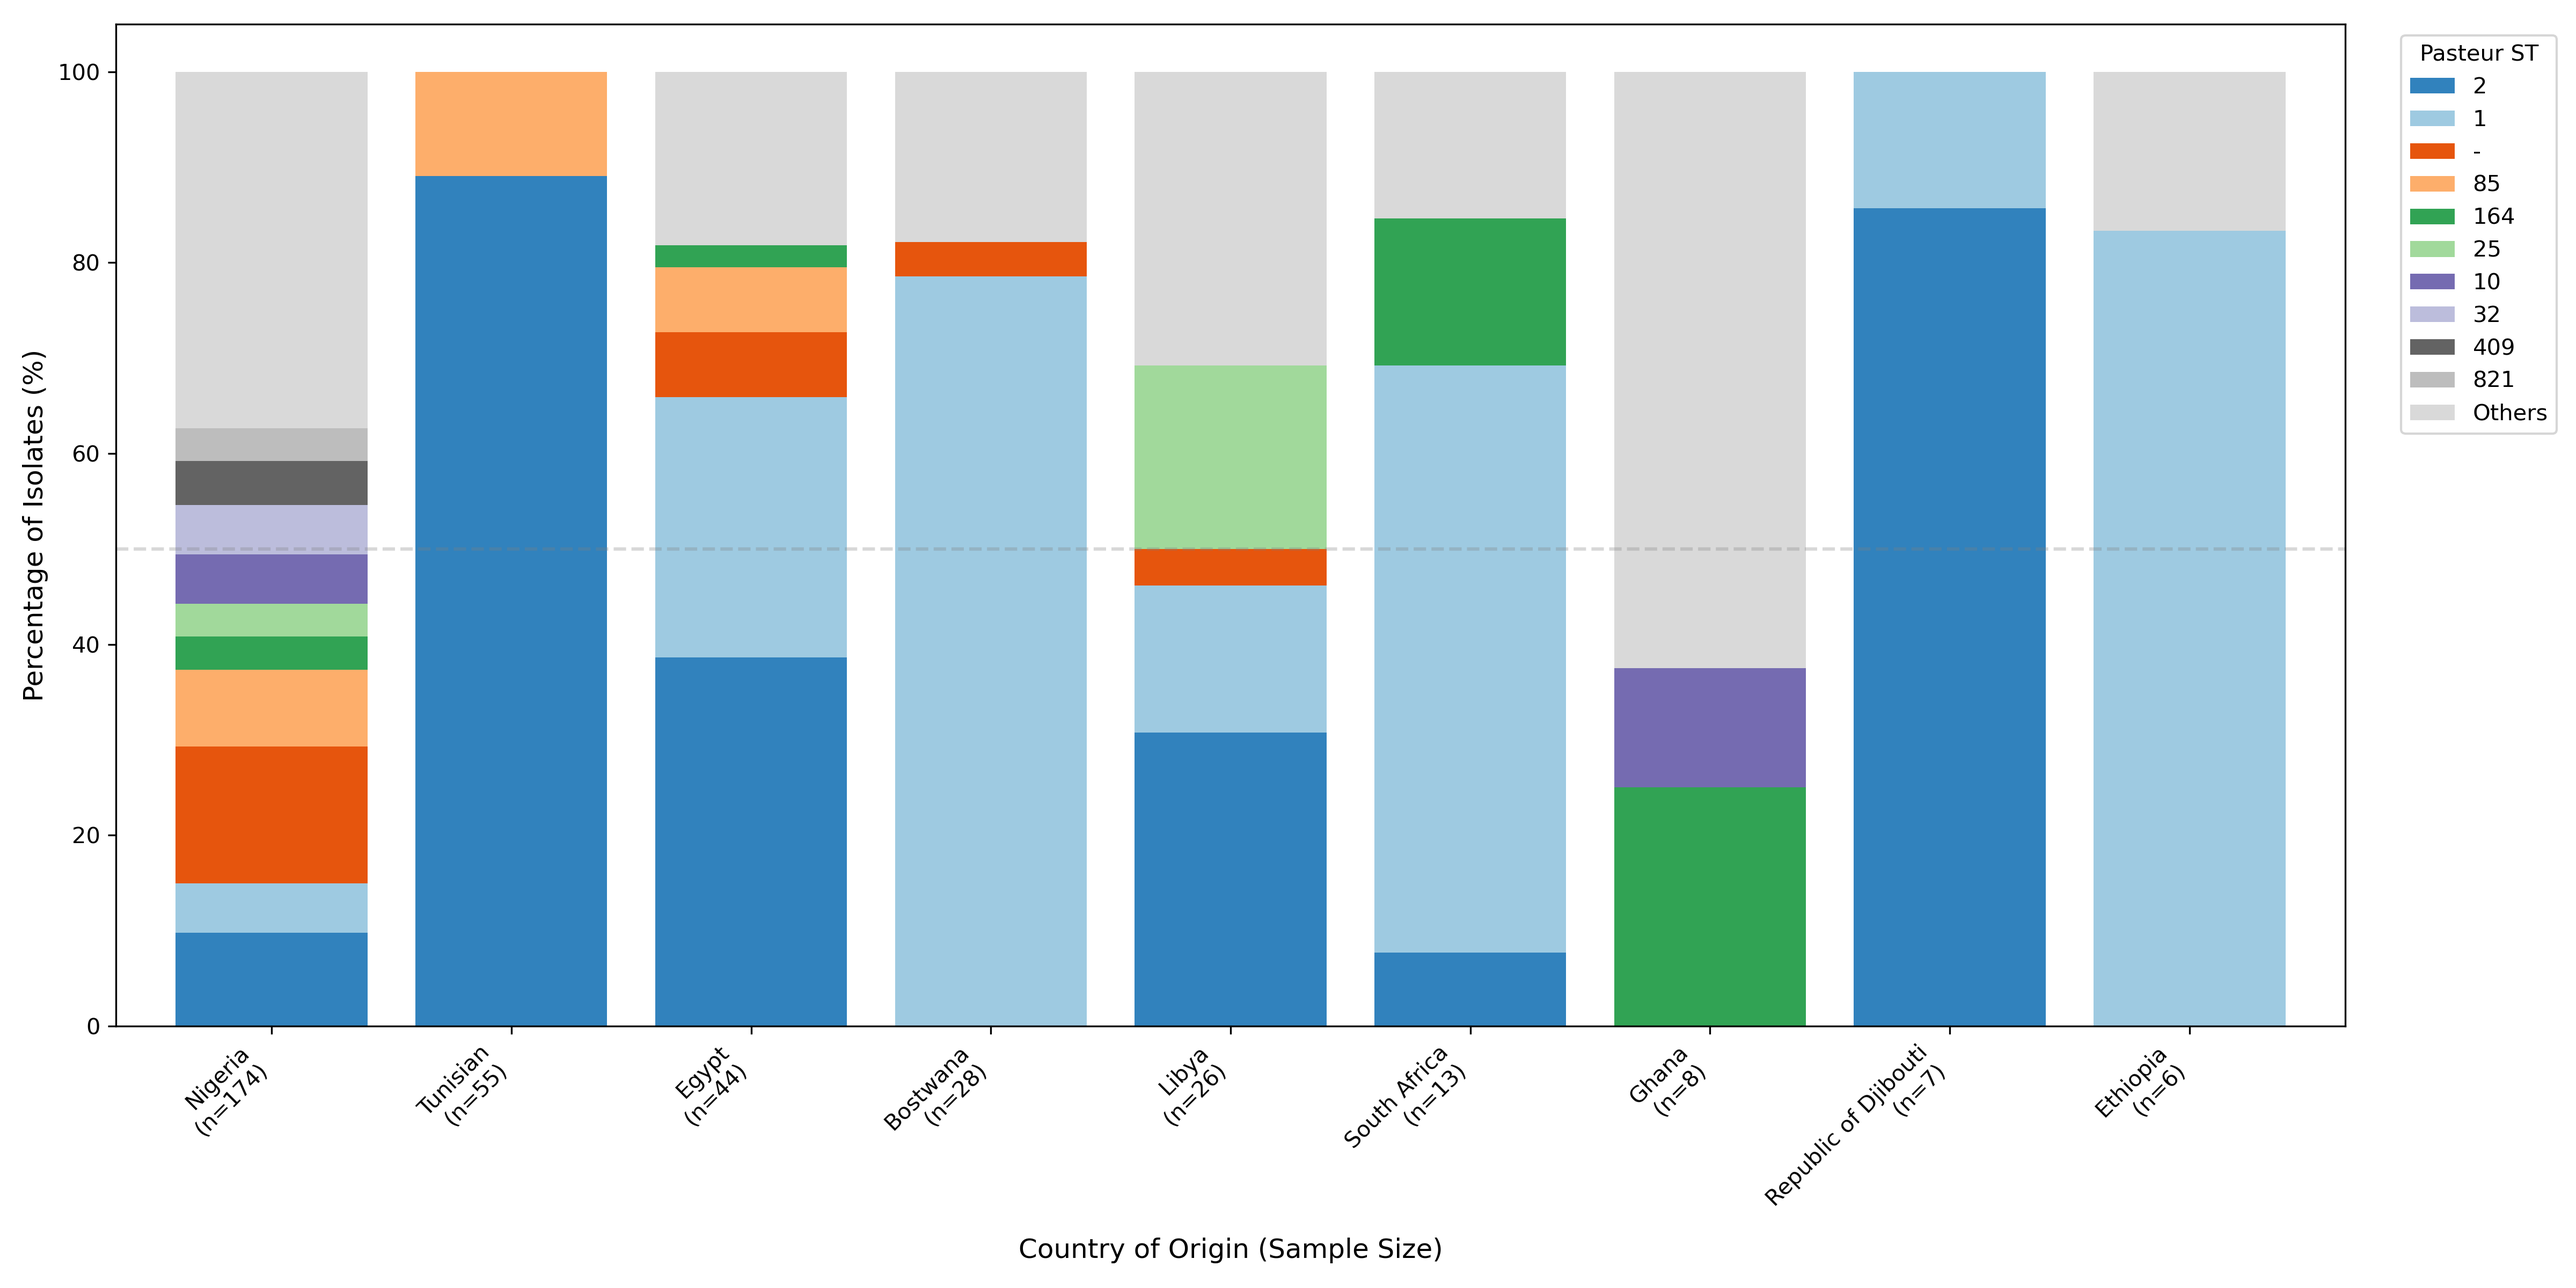
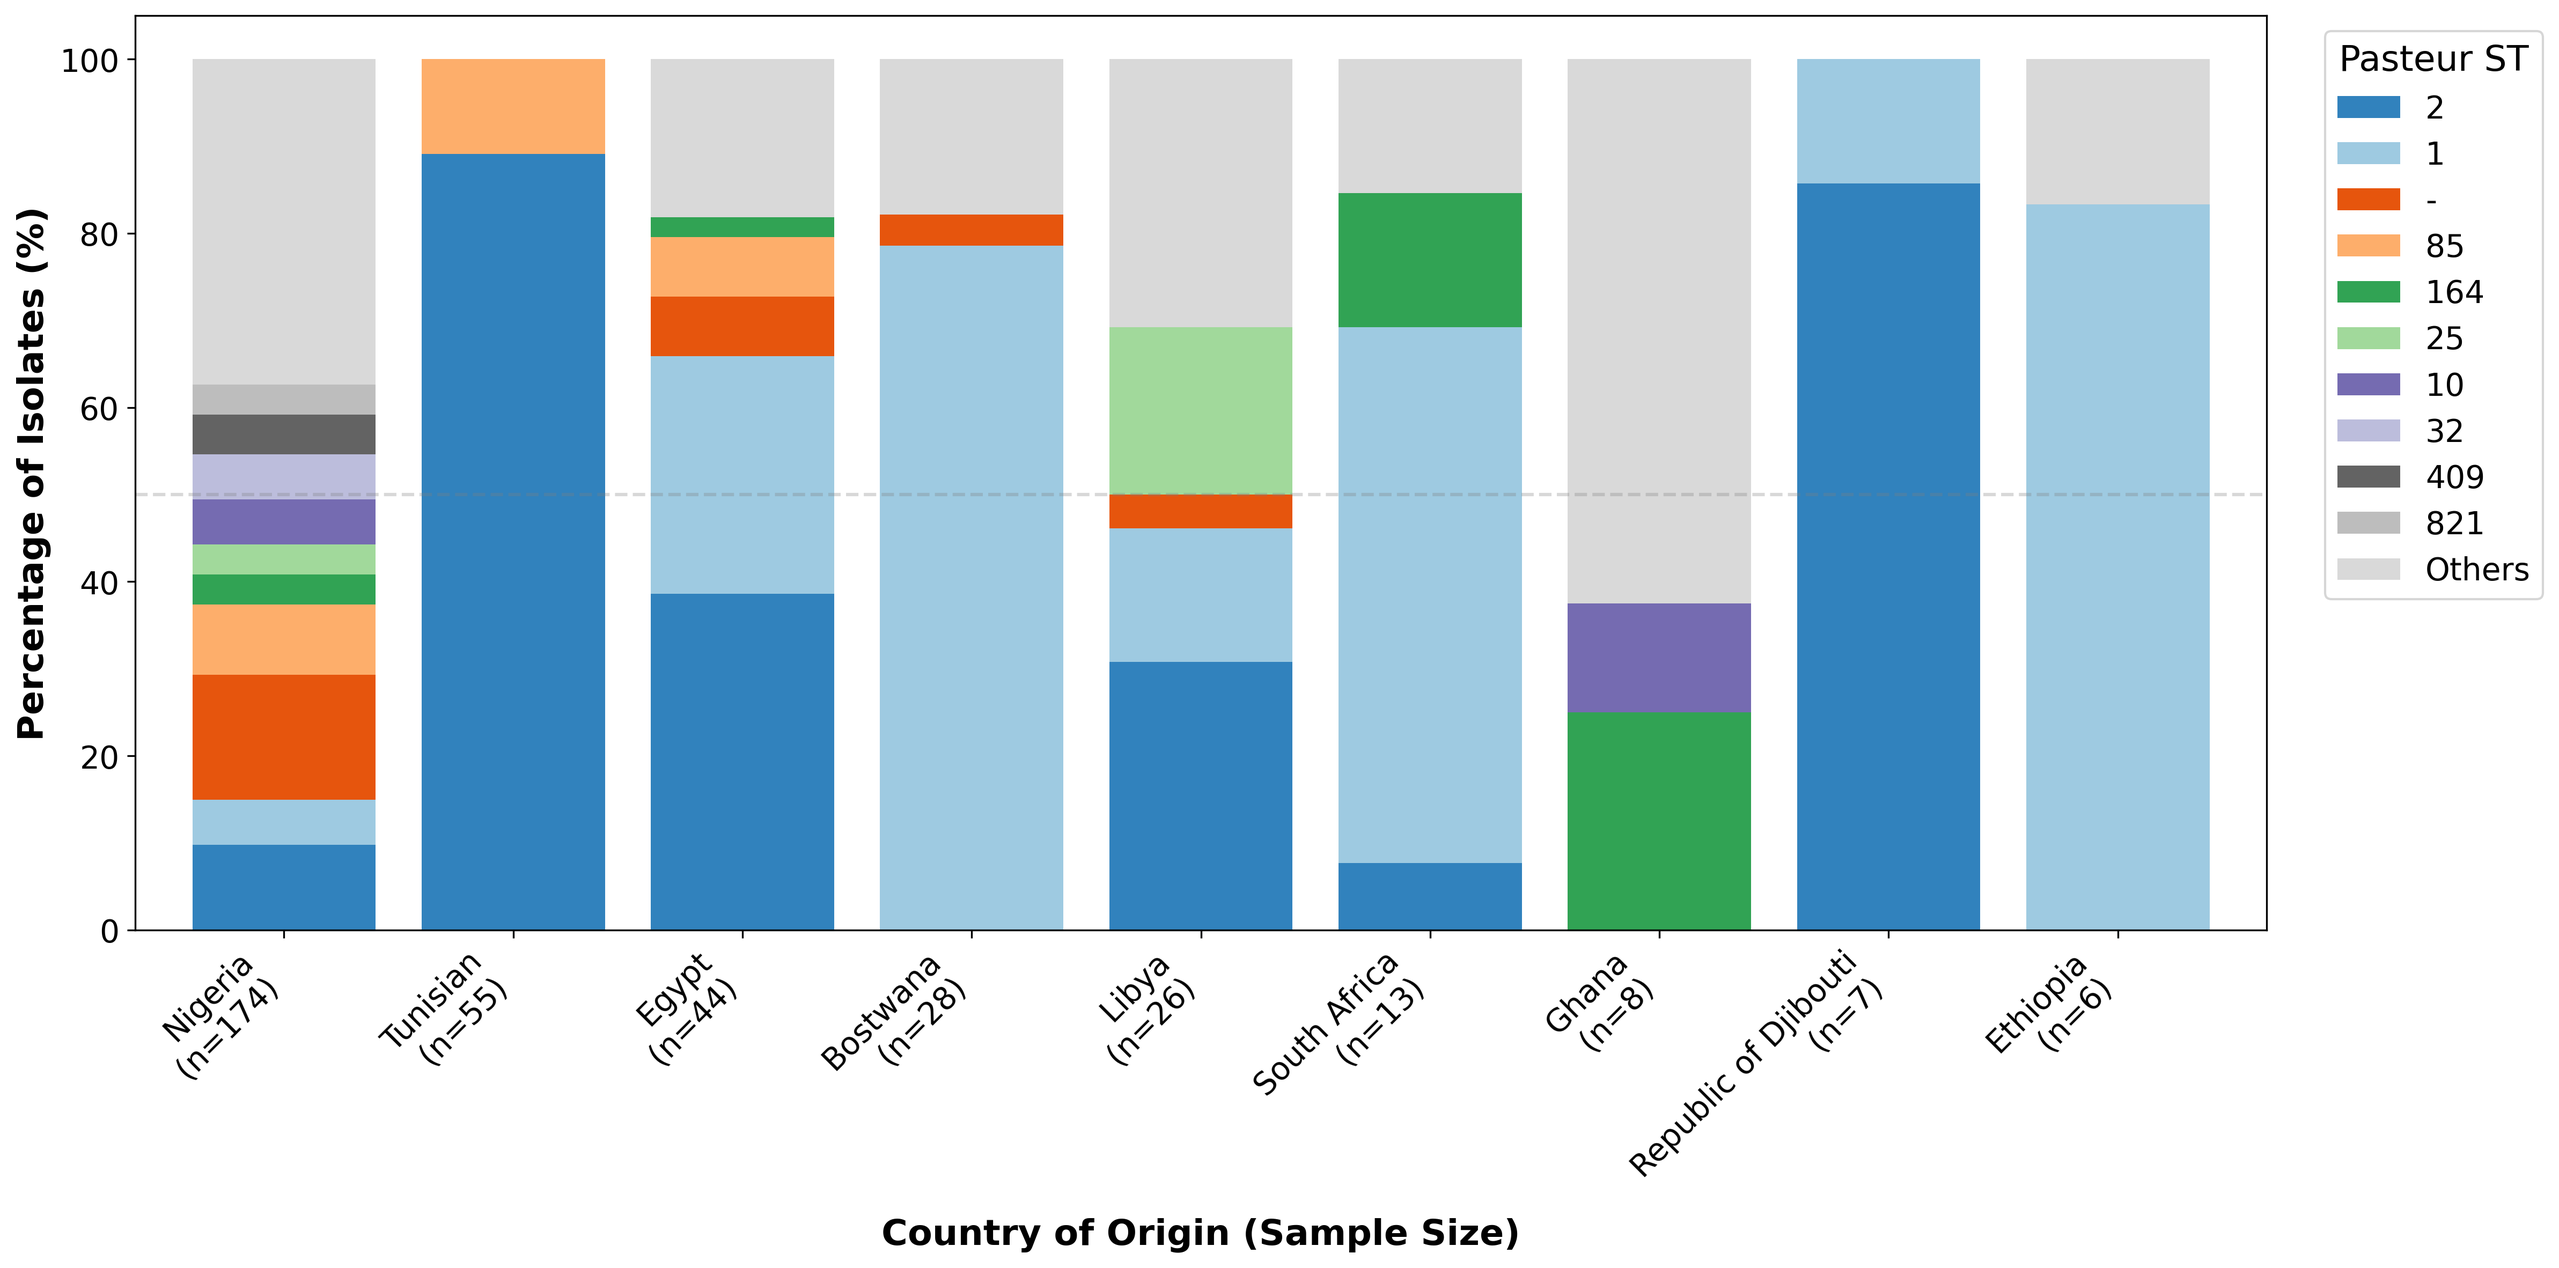
update script

diff --git a/Scripts/plot_faceted_source.py b/Scripts/plot_faceted_source.py
@@ -1,6 +1,6 @@
-# 14_plot_faceted_source_st.py
+# 14_plot_faceted_source_st_bold.py
 # Description: Creates a faceted bar chart showing Sequence Type (ST) distribution
-# separated by Isolation Source (e.g., Blood, Respiratory, Wound).
+# separated by Isolation Source with BOLD AXIS TEXT and MEGA LEGEND.
 # Corresponds to Figure 4.5 in the thesis.
 
 import pandas as pd
@@ -8,8 +8,8 @@ import matplotlib.pyplot as plt
 import os
 
 # --- Configuration ---
-INPUT_FILE = "../data/microreact_metadata_final_Copy.xlsx"
-OUTPUT_IMAGE = "../results/figures/Figure_4_5_Faceted_ST_By_Source.png"
+INPUT_FILE = "data/microreact_metadata_final_Copy.xlsx"
+OUTPUT_IMAGE = "results/figures/Figure_4_5_Faceted_ST_By_Source.png"
 
 os.makedirs(os.path.dirname(OUTPUT_IMAGE), exist_ok=True)
 
@@ -19,17 +19,14 @@ meta = pd.read_excel(INPUT_FILE, index_col='id')
 
 # 2. BASIC CLEANING
 meta = meta.dropna(subset=['Country', 'ST'])
-
 meta['Country'] = meta['Country'].str.strip()
 meta['Isolation source'] = meta['Isolation source'].str.lower().str.strip()
 meta['Isolation source'] = meta['Isolation source'].fillna('unknown')
-
 meta['ST'] = pd.to_numeric(meta['ST'], errors='coerce')
 meta = meta.dropna(subset=['ST'])
 meta['ST'] = meta['ST'].astype(int)
 
 # 3. ISOLATION SOURCE MAPPING
-# Standardizing diverse source names into broad categories
 source_map = {
     # PATIENT SAMPLES
     'blood': 'blood', 'cvp blood': 'blood', 'cerebrospinal fluid (csf)': 'csf',
@@ -71,7 +68,6 @@ priority_sources = [
 meta = meta[meta['Isolation source'].isin(priority_sources)]
 
 # 5. GLOBAL COUNTRY + ST SELECTION
-# Define consistent categories for all facets
 global_country_counts = meta['Country'].value_counts()
 top_countries = global_country_counts[global_country_counts >= 5].nlargest(5).index
 top_st_global = meta['ST'].value_counts().nlargest(10).index
@@ -82,8 +78,13 @@ sources = priority_sources
 ncols = 2
 nrows = (len(sources) + 1) // ncols
 
-fig, axes = plt.subplots(nrows, ncols, figsize=(18, 6 * nrows), sharey=True)
+# Wide figure
+fig, axes = plt.subplots(nrows, ncols, figsize=(24, 11 * nrows), sharey=True)
 axes = axes.flatten()
+
+# We need to capture handles for the legend from a valid plot
+legend_handles = None
+legend_labels = None
 
 for ax, source in zip(axes, sources):
     subset = meta[meta['Isolation source'] == source]
@@ -114,32 +115,57 @@ for ax, source in zip(axes, sources):
         width=0.8, legend=False
     )
 
-    # Formatting
-    ax.set_xticklabels(plot_data_pct.index, rotation=45, ha='right', rotation_mode='anchor', fontsize=12)
-    ax.tick_params(axis='y', labelsize=12)
-    
+    # Capture handles/labels from the first successful plot
+    if legend_handles is None:
+        legend_handles, legend_labels = ax.get_legend_handles_labels()
+
+    # --- STYLE UPDATES (BOLD EVERYWHERE) ---
     n_source = subset.shape[0]
-    ax.set_title(f"{source.capitalize()} (n={n_source})", fontsize=14, fontweight='bold')
-    ax.set_ylabel('Percentage (%)')
+    ax.set_title(f"{source.capitalize()} (n={n_source})", fontsize=20, fontweight='bold')
+    
+    ax.set_ylabel('Percentage (%)', fontsize=18, fontweight='bold')
     ax.set_xlabel('')
+    
+    # 1. BOLD X-AXIS LABELS (Countries)
+    ax.set_xticklabels(
+        plot_data_pct.index, 
+        rotation=45, 
+        ha='right', 
+        rotation_mode='anchor', 
+        fontsize=16, 
+        fontweight='bold'  # <--- BOLD ADDED HERE
+    )
+
+    # 2. BOLD Y-AXIS TICKS (Numbers)
+    # We have to iterate to force them bold
+    for label in ax.get_yticklabels():
+        label.set_fontweight('bold')
+    ax.tick_params(axis='y', labelsize=16)
+    
     ax.set_ylim(0, 100)
     ax.axhline(50, linestyle='--', alpha=0.3)
     ax.spines['top'].set_visible(False)
     ax.spines['right'].set_visible(False)
     ax.grid(axis='y', alpha=0.2)
 
-# 7. GLOBAL LEGEND FIX
-for a in axes:
-    handles, labels = a.get_legend_handles_labels()
-    if handles:
-        break
+# Hide unused axes
+for i in range(len(sources), len(axes)):
+    axes[i].set_visible(False)
 
-fig.legend(
-    handles, labels, title='Pasteur ST',
-    bbox_to_anchor=(1.02, 0.5), loc='center left',
-    fontsize=14, title_fontsize=16, markerscale=2.0
-)
+# 7. GLOBAL LEGEND FIX (MEGA SIZE)
+if legend_handles:
+    fig.legend(
+        legend_handles, legend_labels, 
+        title='Pasteur ST',
+        bbox_to_anchor=(0.99, 0.5), 
+        loc='center right',         
+        fontsize=22,           
+        title_fontsize=24,     
+        markerscale=3.0        
+    )
 
-plt.tight_layout(rect=[0, 0, 0.9, 1])
-plt.savefig(OUTPUT_IMAGE, dpi=300)
+# --- LAYOUT ADJUSTMENT ---
+plt.tight_layout(rect=[0, 0, 0.78, 1]) 
+
+plt.savefig(OUTPUT_IMAGE, dpi=300) 
 print(f"Faceted plot saved to {OUTPUT_IMAGE}")

diff --git a/Scripts/plot_st_distr.py b/Scripts/plot_st_distr.py
@@ -1,4 +1,4 @@
-# 13_plot_st_distribution.py
+# plot_st_distribution.py
 # Description:Visualizes the distribution of Pasteur Sequence Types (STs) across different countries.
 # Countries with fewer than 5 isolates are filtered out.
 # Corresponds to Figure 4.4 in the thesis.
@@ -8,8 +8,8 @@ import matplotlib.pyplot as plt
 import os
 
 # --- Configuration ---
-INPUT_FILE = "../data/microreact_metadata_final_Copy.xlsx"
-OUTPUT_IMAGE = "../results/figures/Figure_4_4_ST_Distribution.png"
+INPUT_FILE = "data/microreact_metadata_final_Copy.xlsx"
+OUTPUT_IMAGE = "results/figures/Figure_4_4_ST_Distribution.png"
 
 os.makedirs(os.path.dirname(OUTPUT_IMAGE), exist_ok=True)
 
@@ -60,14 +60,22 @@ ax = plot_data_pct.plot(kind='bar',
                         width=0.8)
 
 # 5. FORMATTING
-plt.ylabel('Percentage of Isolates (%)', fontsize=12)
-plt.xlabel('Country of Origin (Sample Size)', fontsize=12)
+plt.ylabel('Percentage of Isolates (%)', fontsize=16, fontweight='bold')
+plt.xlabel('Country of Origin (Sample Size)', fontsize=16, fontweight='bold')
+
+# Increased tick label sizes (Country names and % numbers)
+plt.tick_params(axis='both', which='major', labelsize=14)
 plt.xticks(rotation=45, ha='right')
-plt.legend(title='Pasteur ST', bbox_to_anchor=(1.02, 1), loc='upper left')
+
+plt.legend(title='Pasteur ST', 
+           bbox_to_anchor=(1.02, 1), 
+           loc='upper left',
+           fontsize=14,
+           title_fontsize=16)
 
 # Add a horizontal line at 50% for visual guide
 plt.axhline(y=50, color='gray', linestyle='--', alpha=0.3)
 
 plt.tight_layout()
-plt.savefig(OUTPUT_IMAGE, dpi=300)
+plt.savefig(OUTPUT_IMAGE, dpi=300, bbox_inches='tight')
 print(f"Plot saved to {OUTPUT_IMAGE}")
